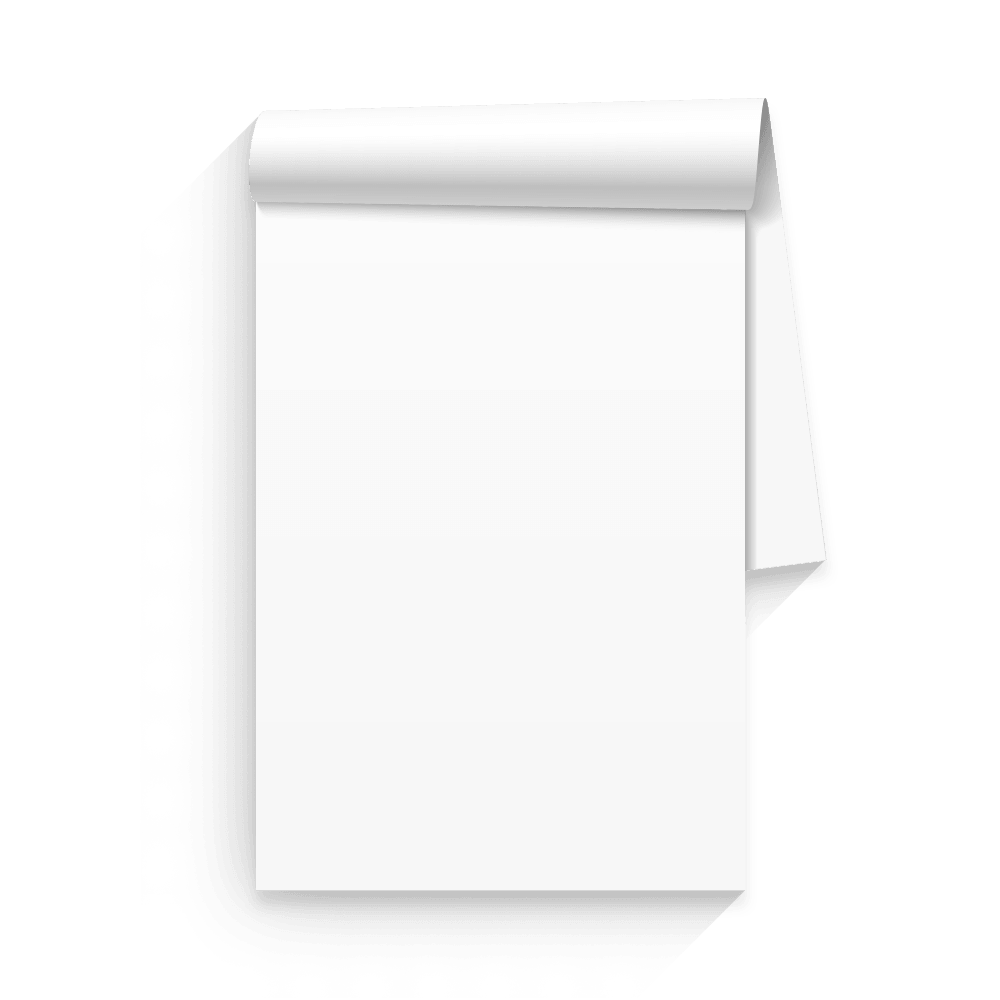
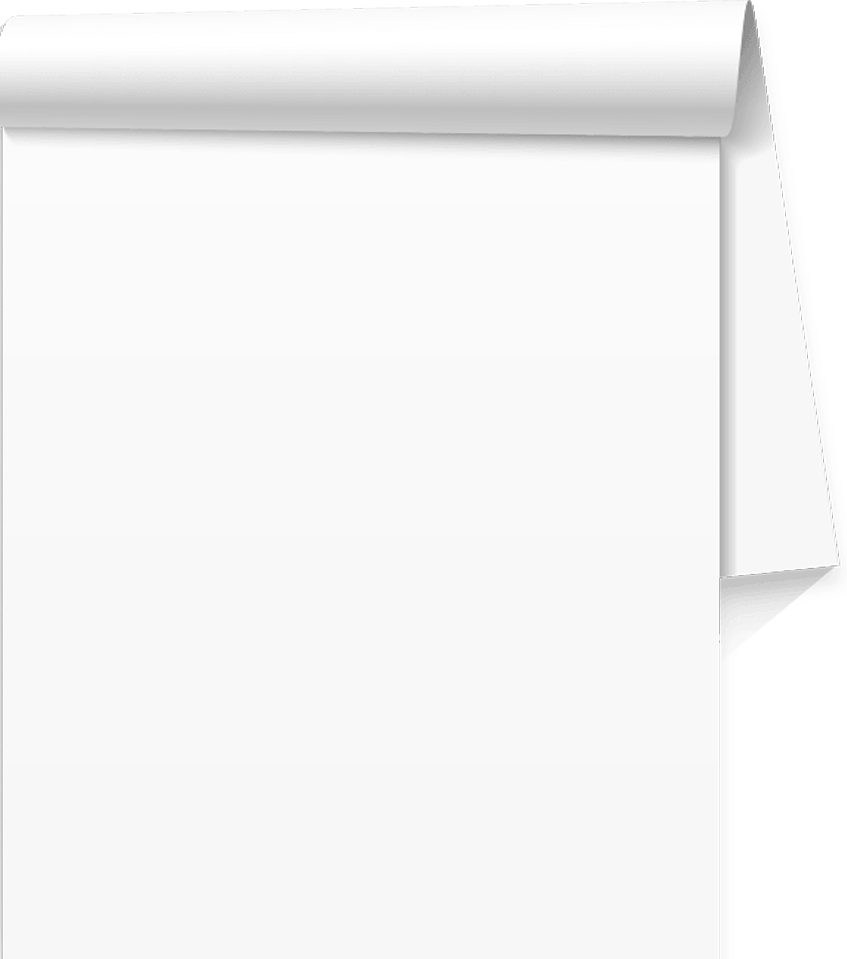
20_12_28

Changed region(s): [[0.0, 0.0, 0.9823, 0.9979]]

diff --git a/surveyStyle.css b/surveyStyle.css
@@ -35,7 +35,7 @@ body {
 	-khtml-user-select: none;
 	user-select:none;
     line-height: 1;
-	background-color: #cccccc;
+	background-color: #fafafa;
 	font-family: 'Gamja Flower', 'Nanum Gothic', 'Jua', 'Do Hyeon', sans-serif;
 }
 ol, ul {
@@ -61,19 +61,19 @@ q:before, q:after {
 		background-repeat: no-repeat;
 		background-size: 110%;
 		overflow: auto;*/
-		overflow: auto;
-		background-image: url(img/note1000.png);
-		background-repeat: no-repeat;
-		background-size: 1000px auto;
-		margin: 25% auto 0 auto;
-		background-color: #fafafa;
-		height: 1200px;
+		overflow: hidden;
+		margin: 0 auto;
 	}
 
 	#surveyWrap {
+		background-image: url(img/note1000.png);
+		background-repeat: no-repeat;
+		background-position: center;
+		/* background-size: 1500px 1000px; */
 		margin: 30% auto;
 		padding: 4rem 0rem 4rem 0rem;
 		border: 1px black solid;
+		height: 1000px;
 		
 	}
 	.questionInner {
@@ -220,6 +220,7 @@ q:before, q:after {
 	#surveyWrap {
 		margin: 5rem auto 0 auto;
 		/* background-color: rgb(218, 218, 218); */
+		background-image: none;
 		width: 1000px;
 		height: 400px;
 	}
